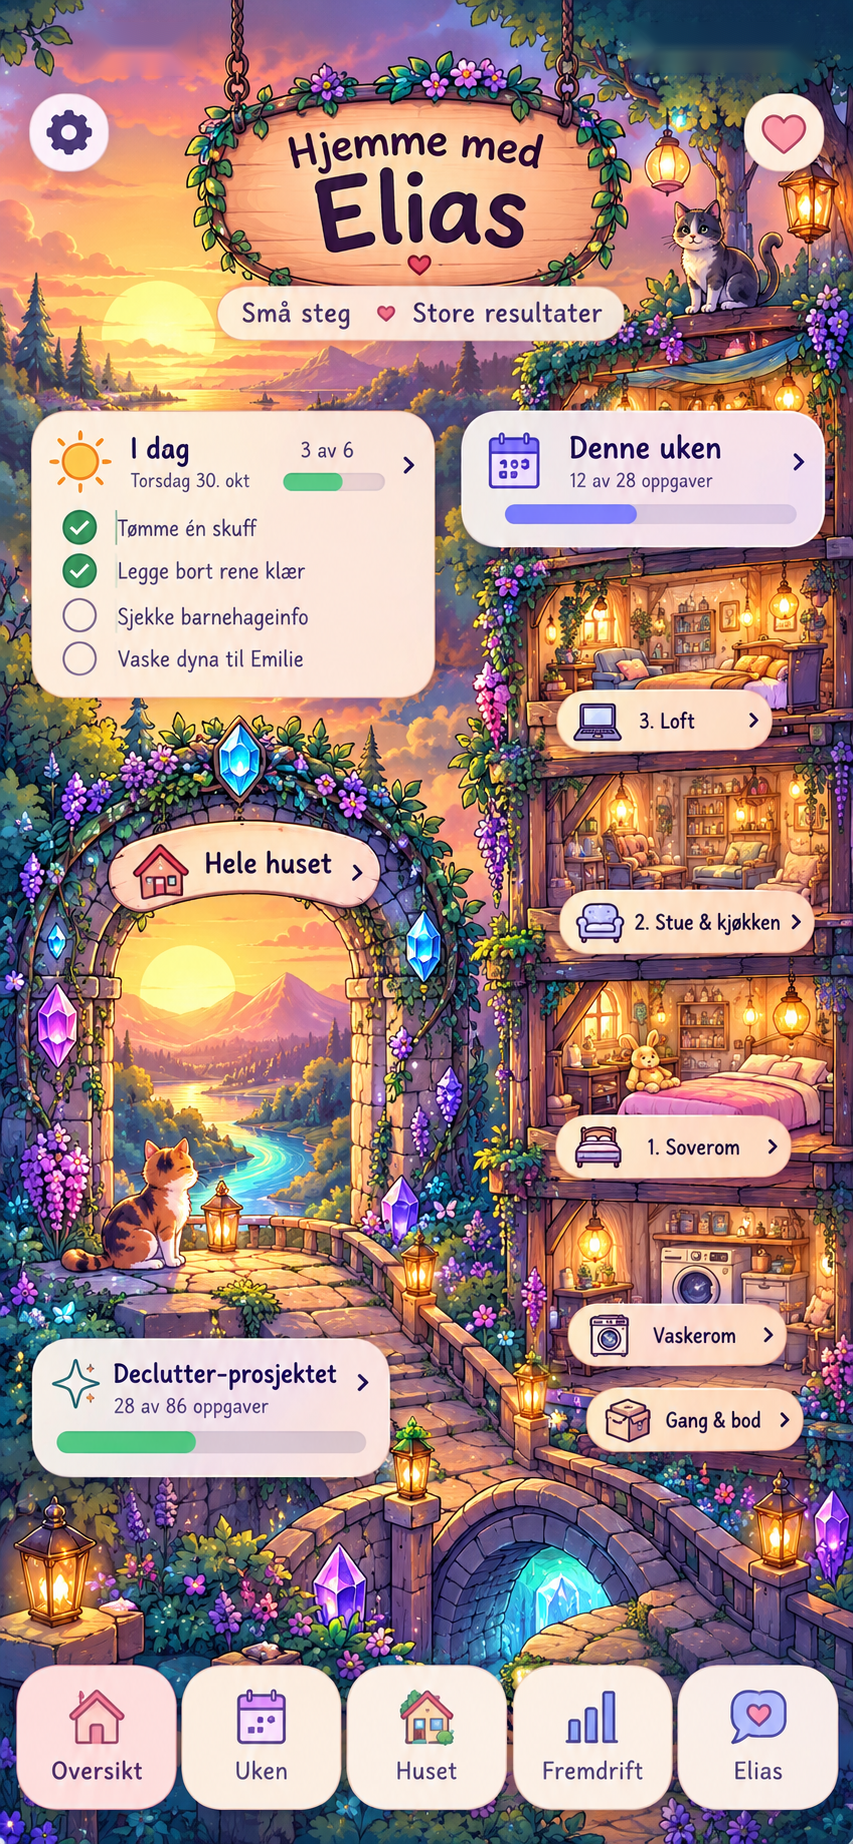
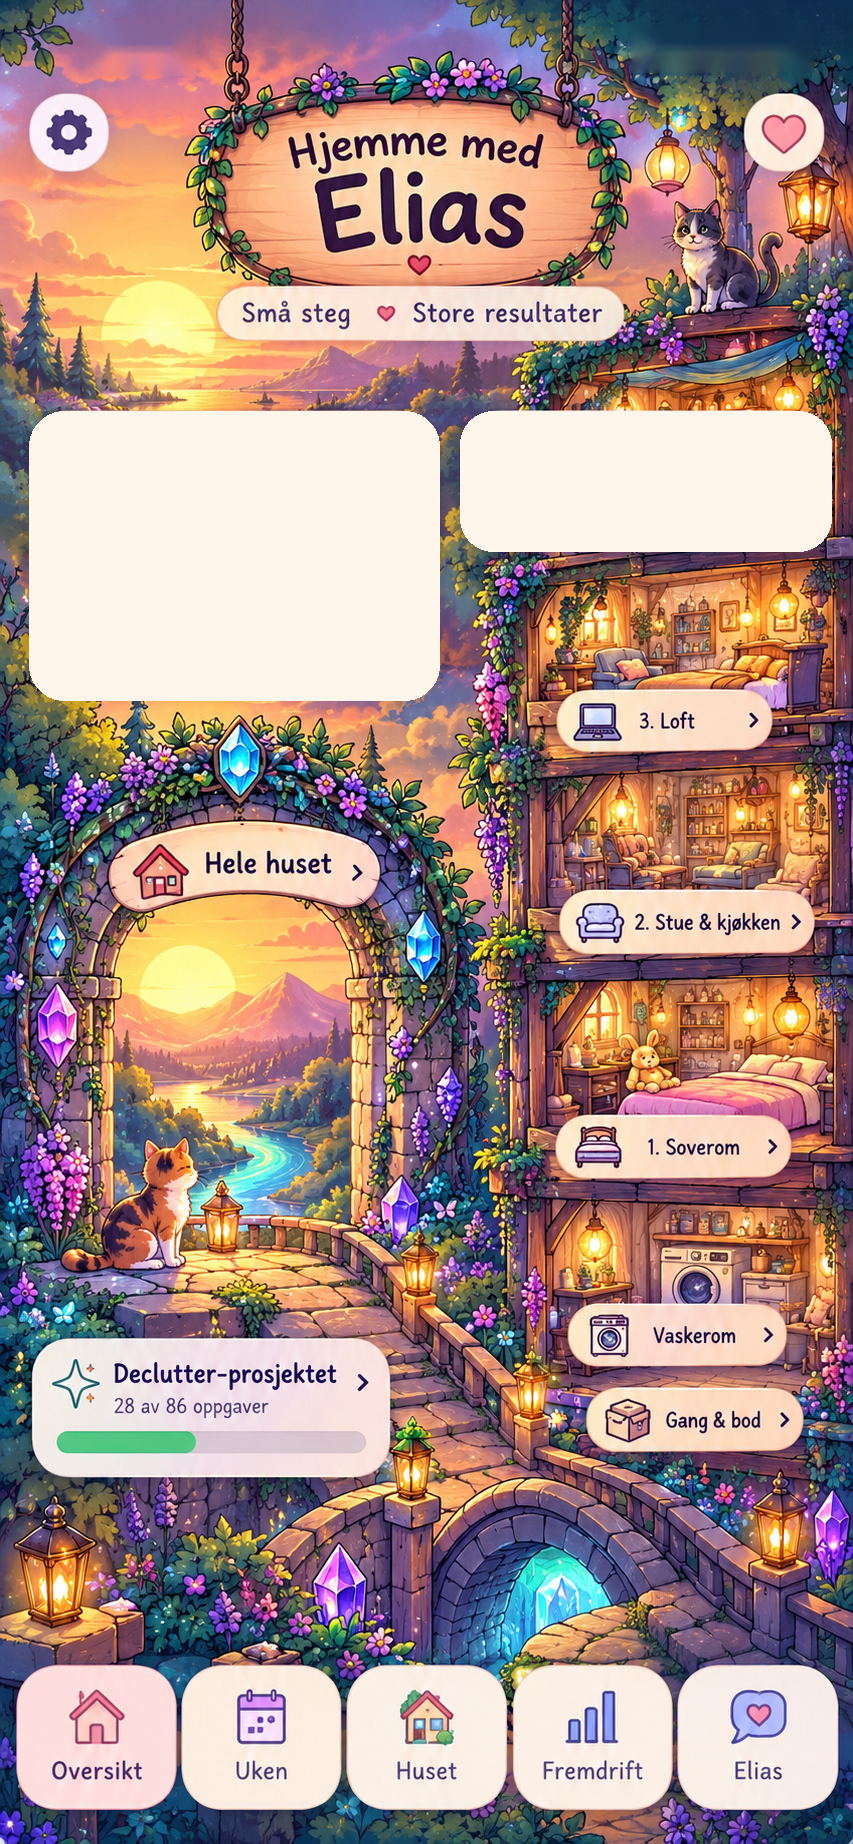
Add files via upload

diff --git a/index.html b/index.html
@@ -2,27 +2,28 @@
 *{box-sizing:border-box}body{margin:0;background:#292342;color:#34294f;font-family:-apple-system,BlinkMacSystemFont,'Segoe UI',sans-serif}.stage{position:relative;width:min(100vw,500px);margin:auto;aspect-ratio:853/1844;background-image:url('eventyrhus.png');background-size:100% 100%;box-shadow:0 0 40px #151126}.hot{position:absolute;background:transparent;border:0;cursor:pointer;touch-action:manipulation}.hot:focus-visible{outline:3px solid #fff;border-radius:15px}.shade{position:fixed;inset:0;background:#171329a8;z-index:10;display:none;align-items:flex-end;justify-content:center}.shade.show{display:flex}.sheet{background:linear-gradient(150deg,#fff6eb,#eee4ff);border:2px solid #fff7ed;border-radius:25px 25px 0 0;width:min(100%,520px);max-height:85dvh;overflow:auto;padding:18px 20px max(24px,env(safe-area-inset-bottom));box-shadow:0 -8px 30px #17132966}.sheethead{display:flex;justify-content:space-between;align-items:center;gap:10px}.sheet h2{font-size:22px;margin:5px 0 12px}.sheet h3{font-size:16px;margin:18px 0 8px}.close{border:0;background:#e6d7f5;color:#49386e;border-radius:100px;width:38px;height:38px;font-size:23px}.task{display:flex;gap:10px;align-items:center;border-bottom:1px solid #d9cfe0;padding:11px 0}.task input{accent-color:#59ae91;width:23px;height:23px;flex-shrink:0}.task label{flex:1;line-height:1.35}.task.done label{text-decoration:line-through;opacity:.6}.del{border:0;background:transparent;color:#776b89;font-size:20px;padding:4px}.btn{border:0;border-radius:13px;background:#6a61b0;color:white;padding:12px 15px;font-weight:700;font-size:15px}.btn.secondary{background:#e3d7f2;color:#493b6b}.actions{display:flex;gap:8px;flex-wrap:wrap;margin:12px 0}.actions>*{flex:1}.field{width:100%;padding:12px;border-radius:12px;border:1px solid #cdbdd8;background:white;font-size:16px}.fieldarea{min-height:110px;font-size:13px}p{line-height:1.45}.muted{color:#716780;font-size:13px}.meter{height:13px;border-radius:20px;background:#dcd2e4;overflow:hidden;margin:12px 0}.fill{height:100%;background:linear-gradient(90deg,#66c8a0,#8c84df)}.room{display:flex;align-items:center;justify-content:space-between;width:100%;background:#fff9f3;border:1px solid #e7d9e6;color:#40315d;padding:13px;margin:7px 0;border-radius:14px;text-align:left;font-size:15px}.room b{font-size:13px;color:#766791}.hint{font-size:12px;color:#625679;background:#fff9f1;padding:9px;border-radius:10px}.chip{display:inline-block;background:#e9dff6;padding:7px 11px;border-radius:100px;margin:4px;font-size:13px}.toast{position:fixed;bottom:15px;left:10%;right:10%;background:#2f2853;color:white;padding:12px;border-radius:12px;text-align:center;z-index:20;display:none}
 
 
-/* Interaktive kort i samme varme stil som illustrasjonens romknapper. */
+/* Live panels, placed exactly over the cleared illustration panels */
 .stage{container-type:inline-size}
-.today-card{position:absolute;left:3.45%;top:21.7%;width:46.4%;height:15.25%;z-index:3;border-radius:18px;background:linear-gradient(145deg,#fffaf1,#fff1e8);border:1px solid #e9cbb8;box-shadow:0 3px 11px #38274b30;padding:3.2cqw 2.1cqw 2.2cqw;overflow:hidden;display:flex;flex-direction:column;gap:1.2cqw;color:#392b58;font-family:'Trebuchet MS',ui-rounded,'Arial Rounded MT Bold',sans-serif}
-.today-head{display:flex;align-items:flex-start;justify-content:space-between;gap:3px;flex-shrink:0;min-height:0}
-.today-title{font-size:4cqw;font-weight:700;line-height:1.15;white-space:nowrap;letter-spacing:-.03em}
-.today-date{font-size:2.65cqw;line-height:1.25;margin-top:1.3cqw;white-space:nowrap;color:#665778}
-.today-count{font-size:2.8cqw;line-height:1.3;white-space:nowrap;font-weight:700;text-align:right}
-.today-progress{height:4px;background:#e6dce9;border-radius:20px;overflow:hidden;margin-top:1.4cqw;min-width:9cqw}
-.today-progress>span{display:block;height:100%;background:#49b68b;border-radius:20px}
-.today-items{min-height:0;flex:1;display:flex;flex-direction:column;gap:1.2cqw;justify-content:center;overflow:hidden}
-.today-item{display:flex;align-items:center;gap:1.6cqw;min-height:5.7cqw;font-size:2.75cqw;line-height:1.2;cursor:pointer;background:#fffdf8b8;border:1px solid #ecdccc;border-radius:2.6cqw;padding:0.6cqw 1cqw}
-.today-item input{appearance:none;flex-shrink:0;width:4.4cqw;height:4.4cqw;margin:0;border:1.5px solid #87749d;border-radius:50%;background:#fff;cursor:pointer}
-.today-item input:checked{background:#35af80;border-color:#35af80}
-.today-item input:checked:after{content:'✓';display:block;text-align:center;color:white;font-weight:900;font-size:3.2cqw;line-height:4cqw}
+.today-card,.week-card{position:absolute;z-index:3;box-sizing:border-box;color:#493456;font-family:ui-rounded,"Trebuchet MS",Arial,sans-serif;background:#fff6eb;border:2px solid #e4c9c0;box-shadow:0 3px 8px #422d5a29}
+.today-card{left:3.4%;top:22.3%;width:48.2%;height:15.65%;border-radius:4.2cqw;padding:2.2cqw 2.6cqw 1.7cqw;display:flex;flex-direction:column;gap:1.5cqw;overflow:hidden}
+.today-head{display:flex;align-items:flex-start;justify-content:space-between;gap:1cqw;flex-shrink:0}
+.today-title{font-size:4.3cqw;font-weight:800;line-height:1.2;white-space:nowrap;letter-spacing:-.02em}
+.today-date{font-size:2.85cqw;line-height:1.2;margin-top:1.1cqw;color:#75617e;white-space:nowrap}
+.today-count{font-size:2.85cqw;line-height:1.3;font-weight:700;text-align:right;white-space:nowrap}
+.today-progress{height:1.1cqw;background:#e8dbe7;border-radius:15px;overflow:hidden;margin-top:1.3cqw;min-width:9cqw}
+.today-progress>span{display:block;height:100%;background:#54b995;border-radius:15px}
+.today-items{display:flex;flex:1;min-height:0;flex-direction:column;justify-content:space-evenly;gap:1cqw;overflow:hidden}
+.today-item{display:flex;align-items:center;gap:1.5cqw;flex:1;min-height:0;font-size:3.05cqw;line-height:1.1;cursor:pointer;border:0;border-radius:1.7cqw;padding:0 0.6cqw;background:#fffdf9}
+.today-item input{appearance:none;flex-shrink:0;width:4.1cqw;height:4.1cqw;margin:0;border:1.4px solid #9b8ba6;border-radius:50%;background:#fff;cursor:pointer}
+.today-item input:checked{background:#43b68e;border-color:#43b68e}
+.today-item input:checked:after{content:'✓';display:block;text-align:center;color:white;font-weight:900;font-size:3cqw;line-height:3.8cqw}
 .today-item span{min-width:0;overflow:hidden;white-space:nowrap;text-overflow:ellipsis;display:block}
-.today-item.done span{text-decoration:line-through;opacity:.62}
-.today-more{border:0;background:transparent;color:#6d5388;text-align:center;font-size:2.6cqw;font-family:inherit;font-weight:700;padding:0.5cqw 0;cursor:pointer;flex-shrink:0}
-.week-card{position:absolute;left:52.75%;top:21.7%;width:41.5%;height:7.3%;z-index:3;border-radius:18px;background:linear-gradient(145deg,#fffaf2,#fff1e8);border:1px solid #e9cbb8;box-shadow:0 3px 11px #38274b30;padding:2.3cqw 2.8cqw;display:flex;flex-direction:column;justify-content:center;gap:1.3cqw;cursor:pointer;color:#392b58;text-align:left;font-family:'Trebuchet MS',ui-rounded,'Arial Rounded MT Bold',sans-serif}
-.week-card strong{font-size:3.7cqw;font-weight:700;line-height:1.15;white-space:nowrap;letter-spacing:-.03em}
-.week-card small{font-size:2.8cqw;line-height:1.3;color:#665778}
-.week-bar{height:1.6cqw;border-radius:20px;background:#e4d9e9;overflow:hidden}.week-bar span{display:block;height:100%;background:#8883d8}
+.today-item.done span{text-decoration:line-through;opacity:.65}
+.today-more{border:0;background:transparent;color:#76568a;text-align:center;font-size:2.9cqw;line-height:1.2;font-family:inherit;font-weight:700;padding:0;cursor:pointer;flex-shrink:0}
+.week-card{left:53.7%;top:22.3%;width:43.6%;height:7.65%;border-radius:4cqw;padding:2.2cqw 2.6cqw;display:flex;flex-direction:column;justify-content:center;gap:1.6cqw;cursor:pointer;text-align:left}
+.week-card strong{font-size:3.75cqw;font-weight:800;line-height:1.2;white-space:nowrap;letter-spacing:-.02em}
+.week-card small{font-size:2.9cqw;line-height:1.2;color:#75617e}
+.week-bar{height:1.5cqw;border-radius:20px;background:#e8dce8;overflow:hidden}.week-bar span{display:block;height:100%;background:#8e85d8}
  </style></head><body><div class="stage" aria-label="Illustrert eventyrhus med navigasjon"><section class="today-card" aria-label="Dagens oppgaver"><div class="today-head"><div><div class="today-title">☀ I dag</div><div class="today-date" id="today-date"></div></div><div><div class="today-count" id="today-count"></div><div class="today-progress"><span id="today-progress"></span></div></div></div><div class="today-items" id="today-items"></div><button class="today-more" onclick="openSheet('today')">Se flere oppgaver ›</button></section><button class="week-card" onclick="openSheet('week')" aria-label="Åpne ukens oppgaver"><strong>📅 Denne uken ›</strong><small id="week-count"></small><div class="week-bar"><span id="week-progress"></span></div></button>
 
 
